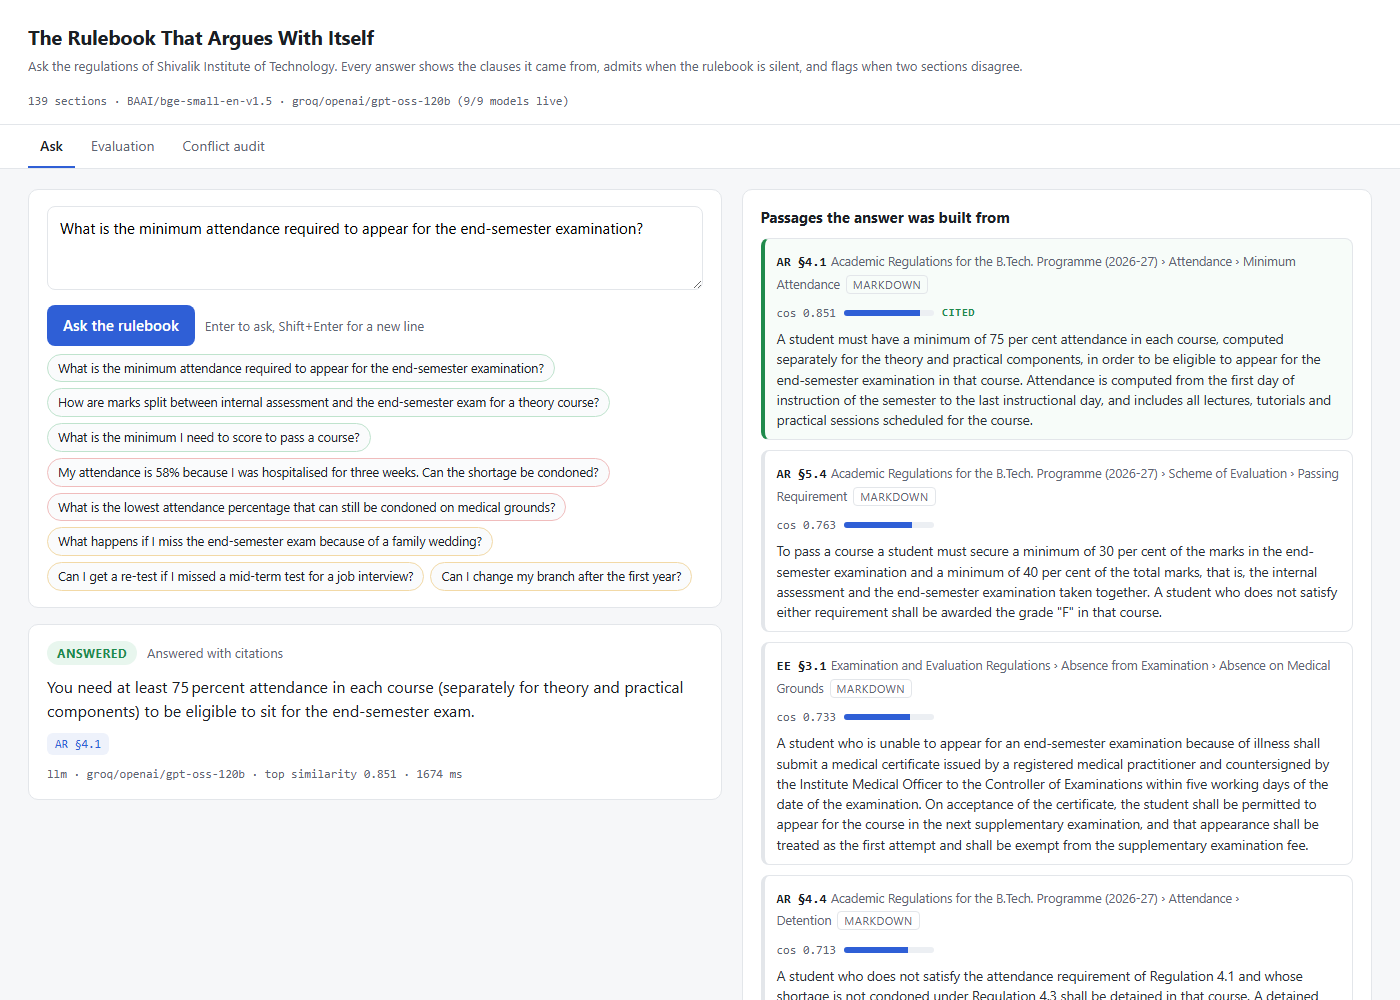
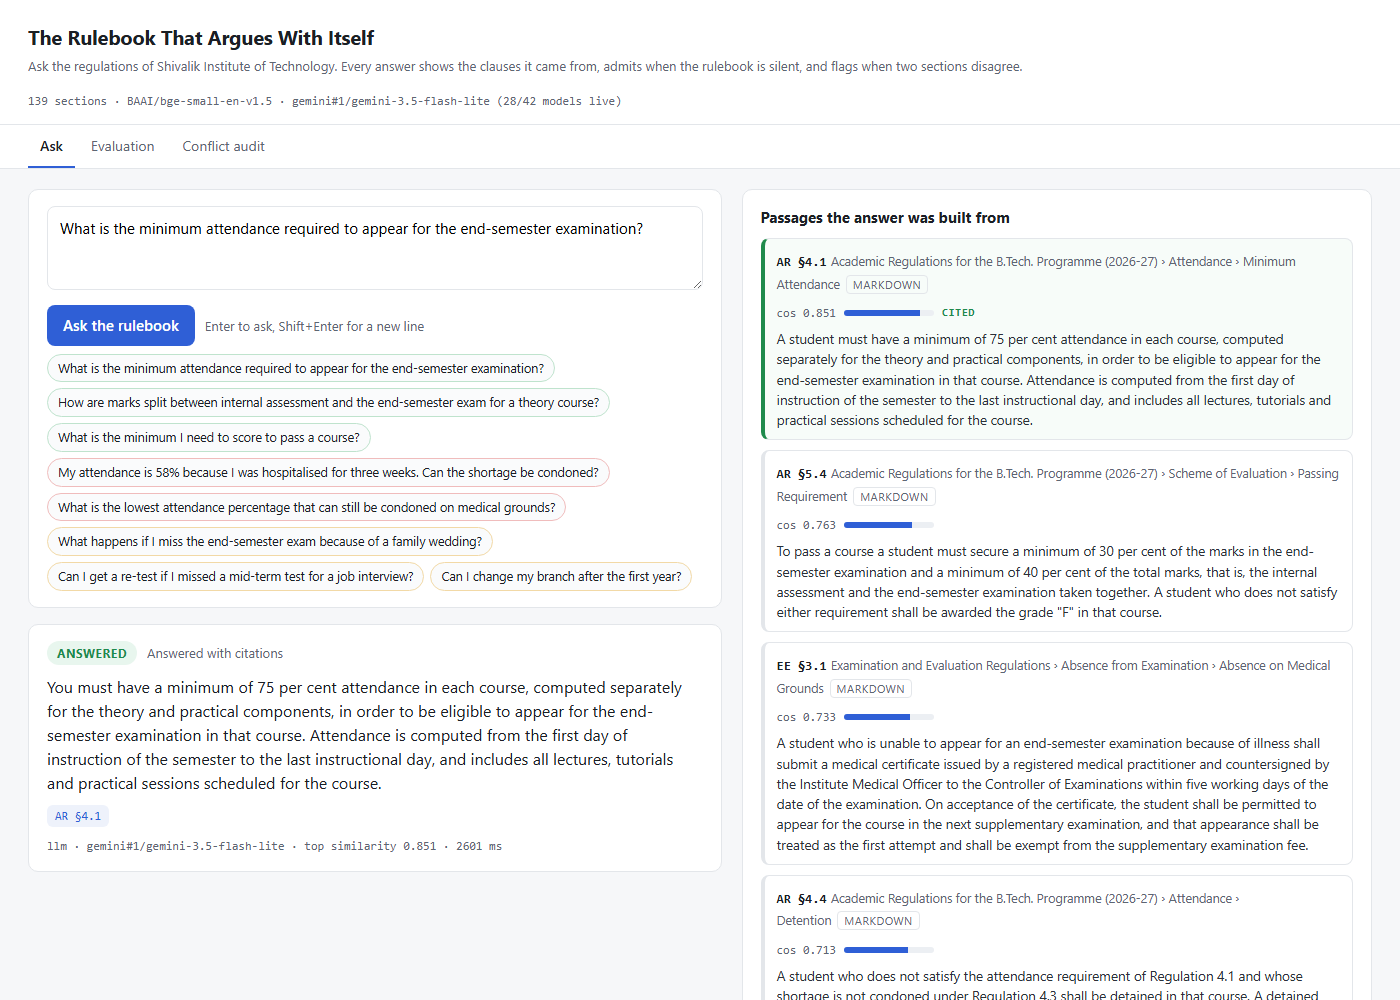
Final run on ten Gemini keys: 47/47 in 18 s; screenshots, docs, captured server-side result

diff --git a/README.md b/README.md
@@ -13,7 +13,7 @@ local embedding model.
 | **Live** | http://34.93.55.172/ (GCE, Mumbai) · https://guy-easily-veterans-victorian.trycloudflare.com (HTTPS tunnel) · http://34.93.55.172.nip.io/ |
 | **Demo video** | _link goes here_ |
 | **Try a link** | [answered](http://34.93.55.172/?q=What%20is%20the%20minimum%20attendance%20required%20to%20appear%20for%20the%20end-semester%20examination%3F) · [not covered](http://34.93.55.172/?q=What%20happens%20if%20I%20miss%20the%20end-semester%20exam%20because%20of%20a%20family%20wedding%3F) · [conflict](http://34.93.55.172/?q=My%20attendance%20is%2058%25%20because%20I%20was%20hospitalised%20for%20three%20weeks.%20Can%20the%20shortage%20be%20condoned%3F) · [audit](http://34.93.55.172/?tab=audit) · [evaluation](http://34.93.55.172/?tab=eval) |
-| **Result** | 46/47 on the labelled test set with the submitted free model (Groq `gpt-oss-120b`), 47/47 on the free model used during development before OpenRouter withdrew it; audit finds 3/3 planted contradictions plus one I had not planted |
+| **Result** | 47/47 on the labelled test set, graded on the server in 18 seconds, on Gemini Flash Lite spread across ten free AI Studio keys; audit finds 3/3 planted contradictions plus one I had not planted |
 
 ![conflict](docs/img/conflict.png)
 
@@ -41,24 +41,24 @@ Two things the brief did not ask for:
 
 ## Results
 
-Submitted configuration: Groq free tier, `openai/gpt-oss-120b`, embeddings
-`BAAI/bge-small-en-v1.5`. Details in [`docs/EVALUATION.md`](docs/EVALUATION.md) and
-[`results/`](results/).
+Submitted configuration: Google AI Studio free tier, `gemini-3.5-flash-lite` (with
+`gemini-2.5-flash` and `gemini-flash-lite-latest` behind it) spread across ten free keys, each
+its own quota; Groq and OpenRouter free models as fallback; embeddings `BAAI/bge-small-en-v1.5`.
+Details in [`docs/EVALUATION.md`](docs/EVALUATION.md) and [`results/`](results/).
 
 | Category | Passed | Total |
 |---|---|---|
 | answerable (status right **and** expected section cited) | 18 | 18 |
 | conflict (status right **and** both sections named) | 4 | 4 |
-| not covered | 24 | 25 |
+| not covered | 25 | 25 |
 | audit: planted contradictions found | 3 | 3 |
 | audit: false positives among 50 pairs | 2 | |
 
-The miss is a name-correction question answered from the clause on correcting clerical errors in
-results, a stretch that is recorded rather than tuned away. During development the free
-OpenRouter model scored 47/47 on two consecutive runs; OpenRouter withdrew that model the next
-morning and the key's 50-a-day quota followed, which is why the client now fails over across
-providers. The run-by-run table, the variance, and what fixed it are in
-[`docs/EVALUATION.md`](docs/EVALUATION.md).
+The full set grades in 18 s on the server with eight questions in flight; a single question
+answers in about 1.7 s. Earlier in the project the same 47 questions scored 47/47 on an
+OpenRouter free model that was withdrawn the next morning, 46/47 on Groq before its daily token
+cap ran out, and 44 to 47 before the attribution check existed. The run-by-run table, the
+variance, and what fixed each thing are in [`docs/EVALUATION.md`](docs/EVALUATION.md).
 
 Three of my original not-covered questions turned out answerable on a strict reading (the
 rulebook has a positive list, and "not on the list" is an answer). They were moved to an
@@ -136,8 +136,9 @@ API reference in [`docs/API.md`](docs/API.md); the deployed VM and how it was bu
 ## What is mocked, and other honest notes
 
 - **Nothing in the answer path is mocked.** Embeddings run locally; the LLM is a real call to a
-  provider. The submitted configuration uses Groq's free tier (`openai/gpt-oss-120b`), with
-  OpenRouter free models as fallback; any OpenAI-compatible endpoint can be added to the chain.
+  provider. The submitted configuration uses Google AI Studio's free tier (Gemini Flash Lite)
+  across ten keys from ten Cloud projects, with Groq and OpenRouter free models as fallback; any
+  OpenAI-compatible endpoint can be added to the chain.
 - **Without a key** the API runs in an `offline-fallback` mode that returns the closest passage,
   labelled as such, so the UI stays usable. Every response carries a `mode` field.
 - **The corpus is fictional.** Using a real university's text would have meant planting

diff --git a/docs/VIDEO_SCRIPT.md b/docs/VIDEO_SCRIPT.md
@@ -8,13 +8,10 @@ Before recording:
 - open the app in one tab, the GitHub repo in a second tab, `results/conflict_audit.md` is not
   needed (the Conflict audit tab shows it)
 - refresh the app once so the header shows `139 sections · bge-small · minimax/minimax-m3:free`
-- **check the `Evaluation` tab before recording.** The run happens on the server and the
-  finished table stays on the tab (it survives refreshes and reopening the page). If the tab
-  says "imported from results/runs/…", that is a completed batch run of the same 47 questions
-  through the same pipeline, loaded because the free tiers' daily quotas were spent; say so on
-  camera in one sentence. If a provider with quota is available (a fresh Gemini key, or Groq
-  after its daily reset), click `Run all questions` before recording and let it finish, 3 to 6
-  minutes; do not click it during recording unless you have quota to spare.
+- **the `Evaluation` tab runs in about 20 seconds now** (ten Gemini keys, eight questions in
+  flight), so you can click `Run all questions` on camera and watch it fill in. The run happens
+  on the server and the finished table stays on the tab, surviving refreshes. Run it once before
+  recording anyway, so you know the keys are healthy.
 - single questions answer in about 2 seconds; a question that needs the verification pass takes 3 to 4
 
 ---
@@ -27,12 +24,13 @@ Before recording:
 > possible responses: answered with citations, not covered, and conflict. The job is to pick
 > the right one.
 
-**0:10 Show the evaluation, briefly** (15 s)
+**0:10 Start the evaluation** (15 s)
 
-Click `Evaluation`. The finished run from before recording is already on screen.
+Click `Evaluation`, click `Run all questions`. Rows start filling in within a few seconds.
 
 > This is the labelled test set, 47 questions, graded on the server: the response type has to
-> be right and the cited sections have to be the expected ones. I will come back to the numbers.
+> be right and the cited sections have to be the expected ones. It takes about twenty seconds;
+> I will come back to it.
 
 Click back to `Ask`.
 
@@ -80,8 +78,8 @@ Click `Conflict audit`.
 Click `Evaluation`; the finished run is there.
 
 > Back to the test set. 18 answerable, 4 conflicts, 25 questions the corpus cannot answer,
-> including the adjacent ones. This is the confusion matrix. Everything is on the free
-> MiniMax model through OpenRouter; embeddings are local.
+> including the adjacent ones. This is the confusion matrix. Everything runs on free tiers,
+> Gemini Flash Lite spread across ten keys with Groq and OpenRouter behind it; embeddings are local.
 
 Read the pass count off the screen. Do not quote a number from memory.
 

diff --git a/docs/EVALUATION.md b/docs/EVALUATION.md
@@ -115,6 +115,26 @@ model, and both runs shared the key with live use of the deployed site, so their
 the full set takes 5 to 10 minutes on the free tier when nothing else is using the key, and
 the run is a server-side job, so it can be started and left alone.
 
+### Final: ten Gemini keys, 47/47 in 18 seconds
+
+The last change of the day was quota, not code. Ten free AI Studio keys, each from its own
+Google Cloud project and therefore its own quota, plus the original one, give eleven slots. The
+chain treats each as a separate unit (`gemini#3/gemini-3.5-flash-lite`), the batch pool rotates
+across them, and the server runs eight questions in flight. New projects cannot use
+`gemini-2.5-flash` ("no longer available to new users"), so the primary became
+`gemini-3.5-flash-lite`, which scores 4/4 on the probe at 1.5 to 3 s on every key;
+`gemini-3.6-flash` was tried and dropped (20 to 55 s per answer, malformed JSON once in five).
+
+| run | configuration | score | wall time |
+|---|---|---|---|
+| single Gemini key, `gemini-2.5-flash`, 2 workers | free tier, ~10 requests/min | 45/47 (2 errors when every model was limited at once) | 1,310 s |
+| eleven Gemini slots, 8 workers, with `gemini-3.6-flash` in the list | | 46/47 (1 malformed-JSON error from 3.6) | 120 s |
+| **eleven Gemini slots, 8 workers, Lite models only** (`results/eval_final_vm.json`, the server-side run) | | **47/47** | **18 s** |
+
+Median latency 1.7 s, p90 6.9 s. The confusion matrix is the identity; the borderline
+questions all came back `not_covered`. This is the run the Evaluation tab shows and the video
+records.
+
 ### Free-tier daily caps, and what the Evaluation tab shows when they are gone
 
 By early afternoon on 8 September the repeated runs above had used Groq's free allowance of

diff --git a/docs/SUBMISSION_CHECKLIST.md b/docs/SUBMISSION_CHECKLIST.md
@@ -15,10 +15,11 @@ to pipeline to evaluation to deployment.
 ## 2. Before recording
 
 - Open http://34.93.55.172/ (or the HTTPS tunnel URL in `docs/DEPLOYMENT.md`, or run locally
-  with `uvicorn app.main:app`). The header must show `groq/openai/gpt-oss-120b` and "models live".
-- Open the `Evaluation` view, click `Run all questions`, and let it finish (3 to 6 minutes;
-  Groq's free tier is capped at 8,000 tokens per minute per model). The run happens on the
-  server, so you can refresh or leave the page; the finished table stays there for the video.
+  with `uvicorn app.main:app`). The header must show a `gemini#…/gemini-3.5-flash-lite` model and
+  "models live".
+- Open the `Evaluation` view, click `Run all questions`, and let it finish; about 20 seconds
+  with the ten Gemini keys. The run happens on the server, so you can refresh or leave the page;
+  the finished table stays there.
 - Ask one question in the first tab to warm up.
 - Read `docs/VIDEO_SCRIPT.md` once. It is timed at about three minutes.
 - Single answers take about 2 seconds, 3 to 4 with the verification pass. Do not cut waits out

diff --git a/docs/DEPLOYMENT.md b/docs/DEPLOYMENT.md
@@ -67,6 +67,9 @@ gcloud compute ssh rulebook-vm --zone asia-south1-a --command \
 # add a free Groq or Gemini key (picked up by the startup script on the next boot, or add the
 # line to /opt/rulebook/.env over ssh and restart for an immediate effect)
 gcloud compute instances add-metadata rulebook-vm --zone asia-south1-a --metadata "groq-key=gsk_..."
+# several Gemini keys: a comma list must go through a file, gcloud splits commas otherwise
+echo "key1,key2,key3" > keys.txt
+gcloud compute instances add-metadata rulebook-vm --zone asia-south1-a --metadata-from-file gemini-keys=keys.txt
 gcloud compute ssh rulebook-vm --zone asia-south1-a --command \
   "echo 'GROQ_API_KEY=gsk_...' | sudo tee -a /opt/rulebook/.env >/dev/null && sudo systemctl restart rulebook"
 
